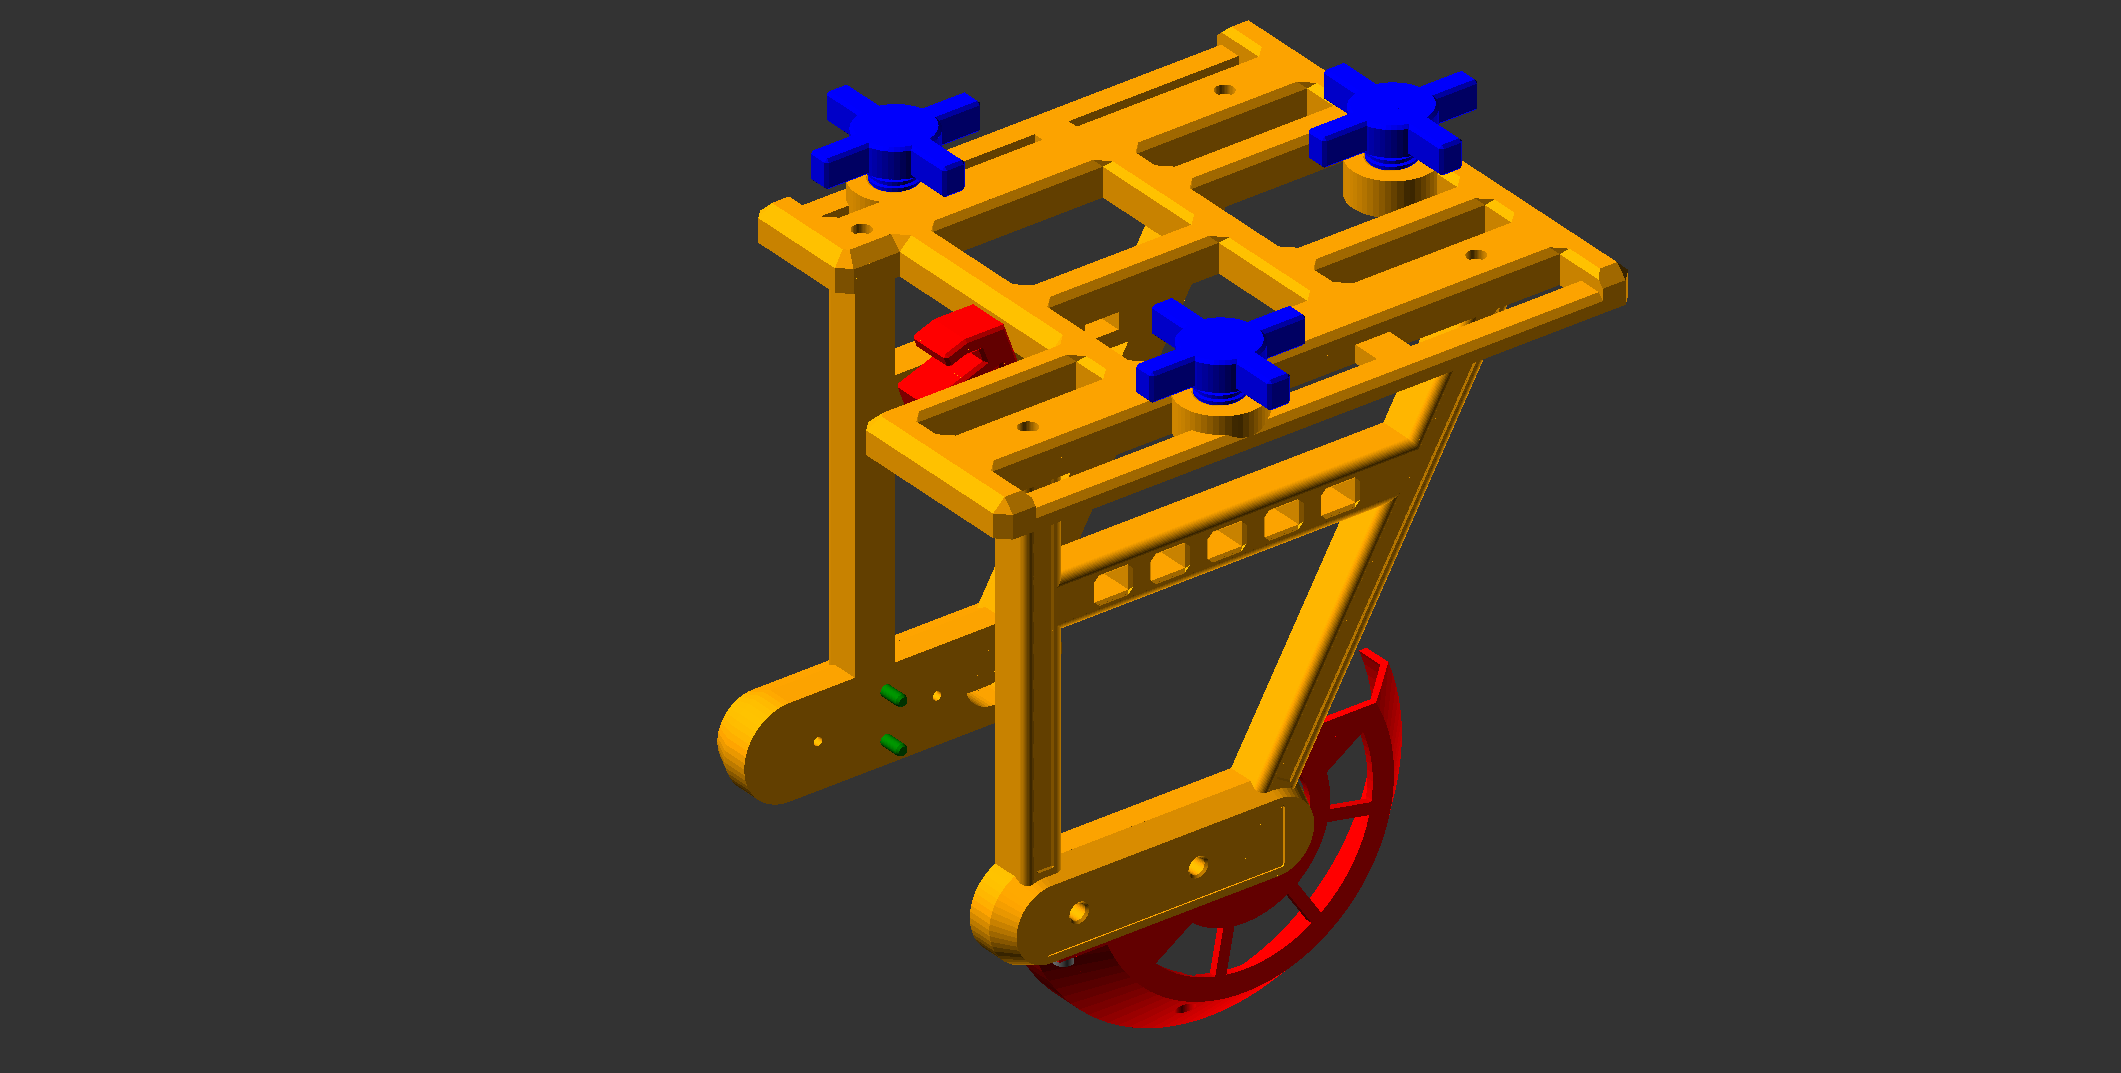
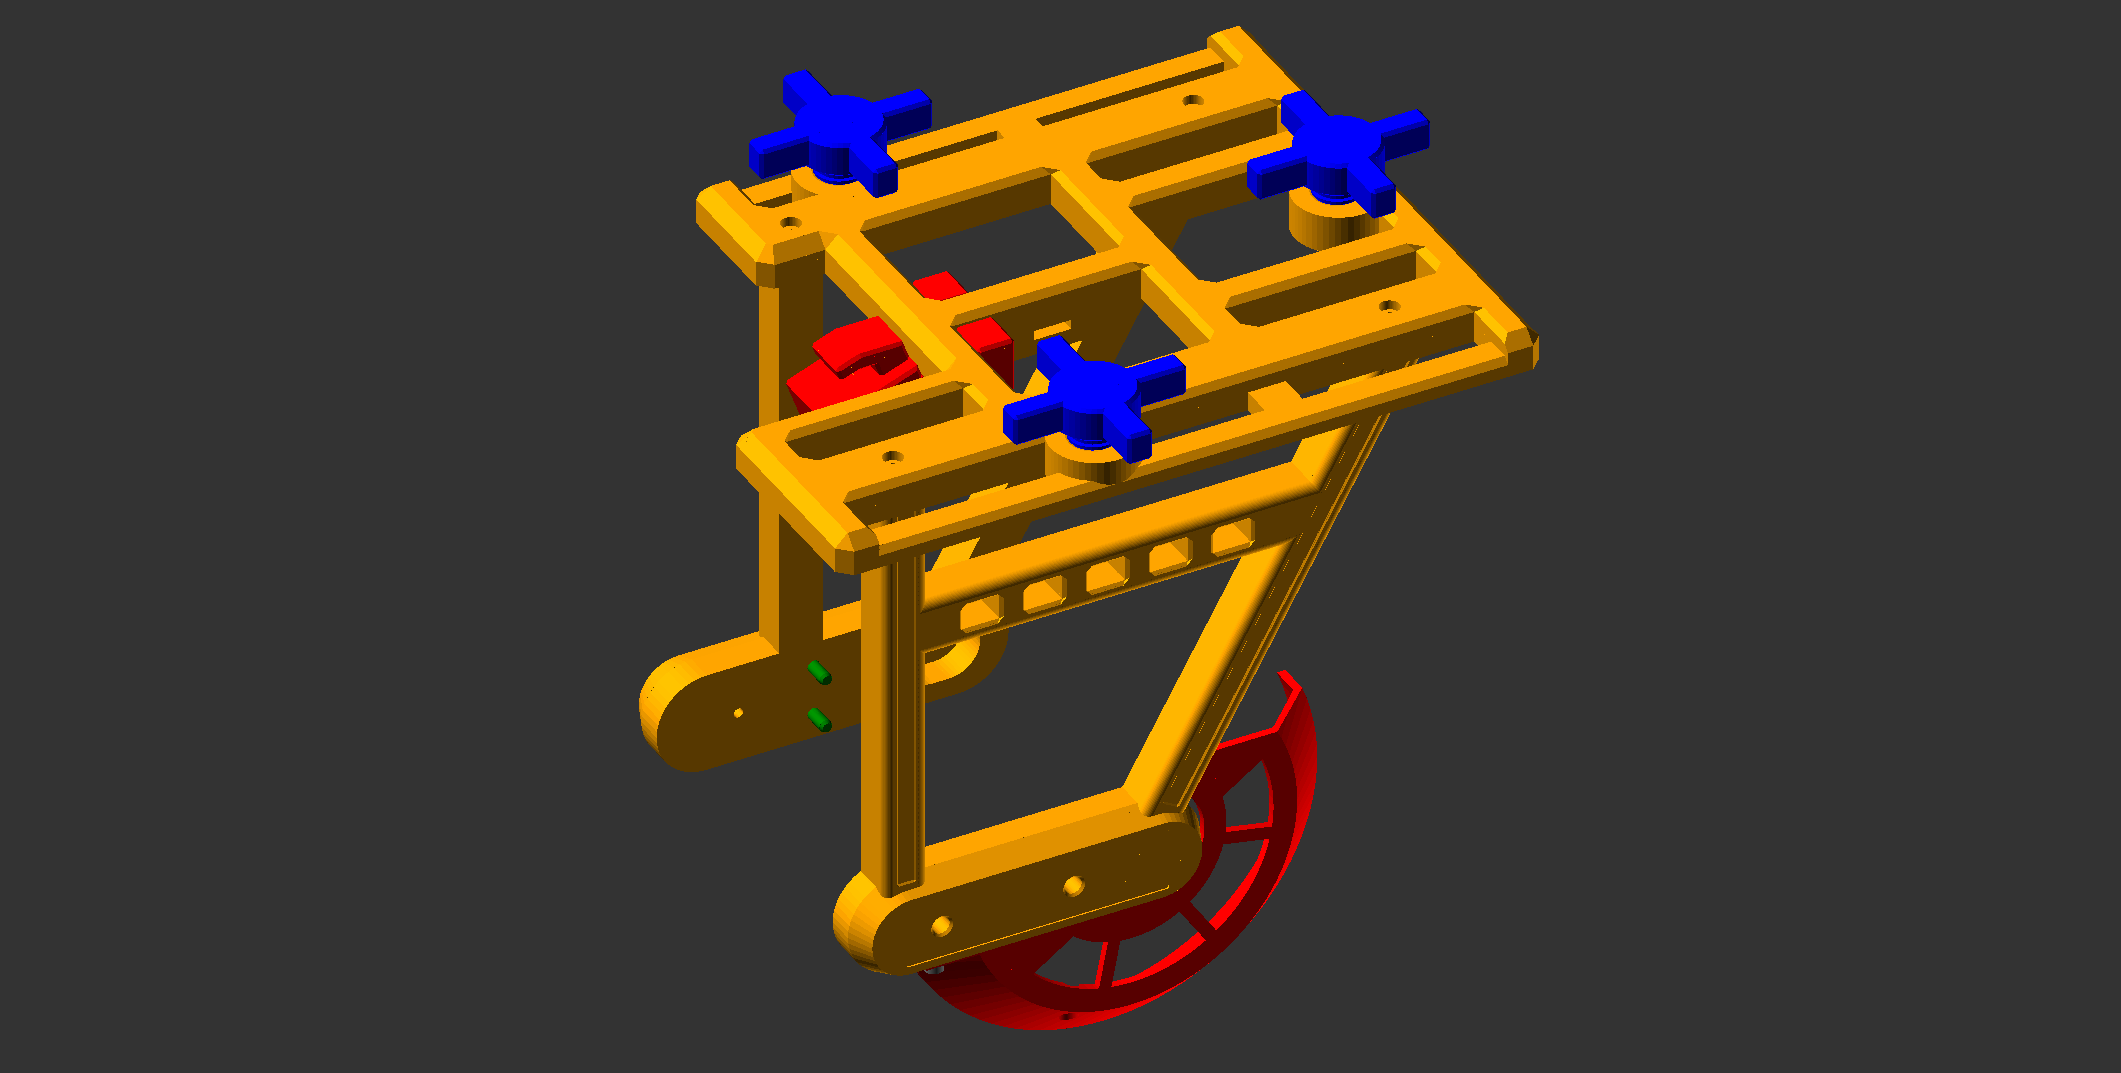
Update to readme and rack picture

Changed region(s): [[0.2801, 0.0, 0.7779, 0.9842]]

diff --git a/README.md b/README.md
@@ -38,11 +38,11 @@ Remove the mudguard and the original hook.  Place the new hook in the same place
 
 Remove the original side covers.  Glue 2 support pins into the centre holes of the rack stays.  Insert two M3 brass inserts into each stay using a hot iron (such as a soldering iron) - ensure the insert is straight and flush with the surface.  Superglue two support pins into each stay.  Affix the left and right rack stays using the original hex screws (use thread-lock).
 
-Press the rack surface onto the left and right stays (this should be easy to do and not require any force).  Screw into place using 4x M3x10 screws (use thread-lock).
+Press the rack surface onto the left and right stays as well as down into the 'U' mount of the hook (this should be easy to do and not require any force).  Screw into place using 4x M3x10 screws (use thread-lock).
 
-Note that the left stay and the rack surface have two addition slots each for M3 brass inserts (on the base of the stay, and under the rear of the surface).  These are for attaching additional accessories such as a disc guard.
+Note that the left stay and the rack surface have two additional slots each for M3 brass inserts (on the base of the stay, and under the rear of the surface).  These are for attaching additional accessories such as a disc guard.
 
-Apply the reflective tape to the sides of the rack (as shown in the pictures).  The main reflective location is designed to take the full 20mm wide tape.  For the stay struts and the back of the rack surface you will need to carefully cut thin strips of tape and affix.
+Apply the reflective tape to the sides and back of the rack (as shown in the pictures).  The main reflective location is designed to take the full 20mm wide tape.  For the stay struts and the back of the rack surface you will need to carefully cut thin strips of tape and affix.
 
 ### Box fastener
 
@@ -102,8 +102,8 @@ The github repository for the model can be found at https://github.com/simoninns
 * Layer: 0.20mm (Quality)
 * Infill: 50%
 * Supports: Everywhere
-* Print time (approximate): 0h 49m
-* Notes: The hook should be printed on it's side to ensure the print layers are 90 degrees from the direction of force when lifting the scooter.
+* Print time (approximate): 2h 36m
+* Notes: The hook should be printed on it's side to ensure the print layers are 90 degrees from the direction of force when lifting the scooter.  This requires the use of supports 'everywhere' due to the shape.
 
 <img src="/images/Renders/hook.png" width="800">
 
